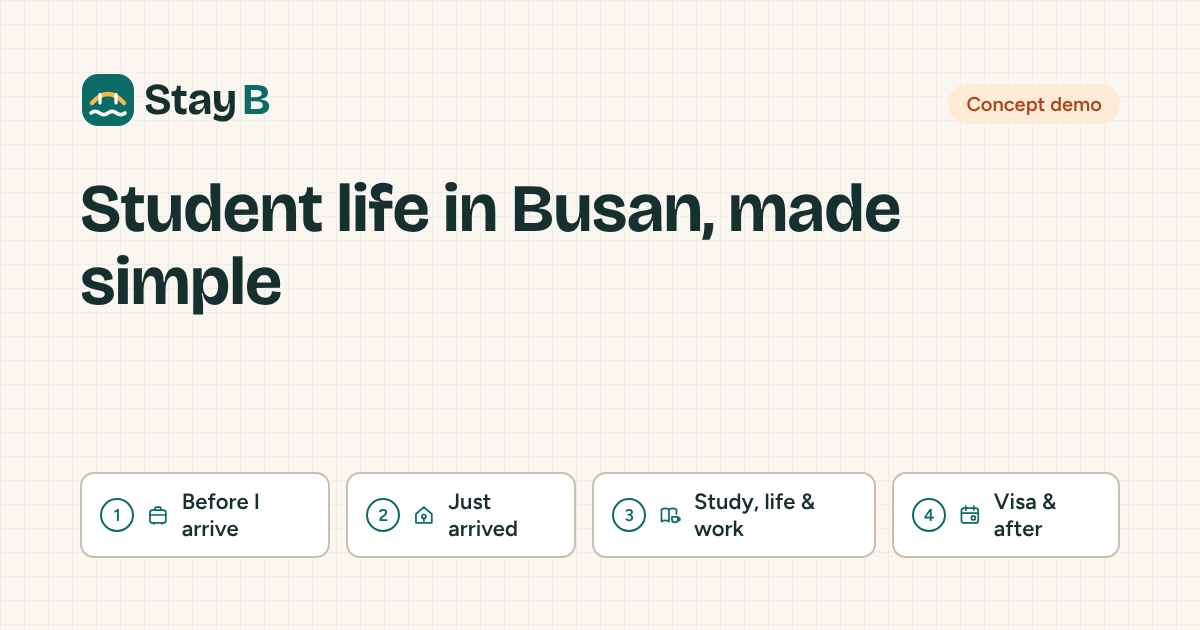
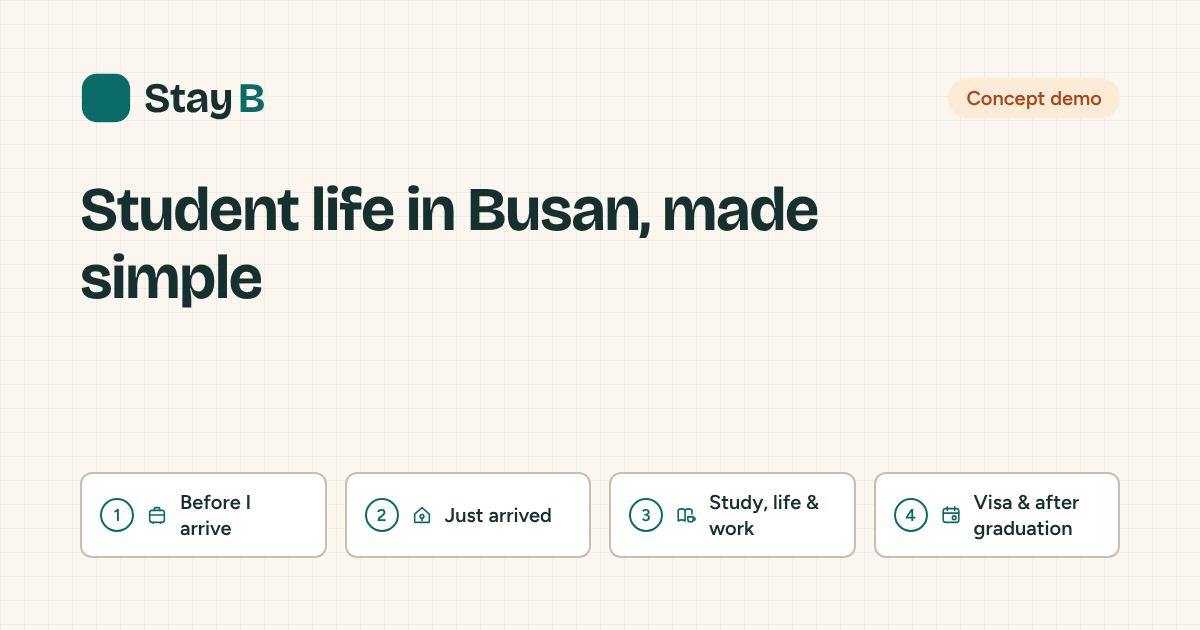
Stay B v2 수정 중 스냅샷(사용량 제한으로 웹코더 중단)
Claude-Session: https://claude.ai/code/session_01TAYZkbMJZLRQs6imsEjKx5

diff --git a/work/builds/stayb-v2/index.html b/work/builds/stayb-v2/index.html
@@ -267,6 +267,7 @@
         <span class="flow-ic meet" role="img" data-label-en="Meet in person" data-label-ko="오프라인에서 만나고" aria-label="Meet in person"><svg class="ic-xs" aria-hidden="true" focusable="false"><use href="#i-pin"/></svg></span>
         <h3 id="off-session-t"><span class="pair"><span lang="en">Pre-arrival info sessions</span><span lang="ko">입국 전 설명회</span></span></h3>
         <p><span data-l="en" lang="en">Meet us in Nepal, with our partner language school, before you fly. Learn about Busan, your school, housing and your first week.</span><span data-l="ko" lang="ko">출국 전 네팔에서 연계 어학원과 함께 만나요. 부산, 학교, 숙소, 첫 주를 미리 알려 드려요.</span></p>
+        <p class="small off-scope"><span data-l="en" lang="en">For students already admitted to a school in Korea.</span><span data-l="ko" lang="ko">한국 학교 입학이 정해진 학생을 위한 생활 설명회예요.</span></p>
         <div class="off-foot"><span class="chip badge-planned"><span data-l="en" lang="en">Planned</span><span data-l="ko" lang="ko">준비 중</span></span><button class="btn btn-warm" type="button" data-toast="dates"><span class="pair"><span lang="en">Get session dates</span><span lang="ko">설명회 일정 받기</span></span></button></div>
       </article>
 
@@ -455,7 +456,7 @@
             <option value="partner-uni">Partner university (to be announced) / 제휴 대학(협의 후 공개)</option>
             <option value="partner-school">Partner language school in Nepal / 네팔 협력 어학원</option>
             <option value="other">Other / 기타</option>
-            <option value="not-yet">Not enrolled yet / 아직 입학 전</option>
+            <option value="not-yet">Admitted, not started yet / 입학 예정(입국 전)</option>
           </select>
         </div>
         <div class="field">
@@ -567,6 +568,7 @@
       <li><svg aria-hidden="true" focusable="false"><use href="#i-coin"/></svg><span><span data-l="en" lang="en">Stay B does not charge any fee for administrative work and does not take a share of the agent's fee.</span><span data-l="ko" lang="ko">Stay B는 행정 업무 비용을 받지 않고, 행정사 비용의 일부도 받지 않아요.</span></span></li>
       <li><svg aria-hidden="true" focusable="false"><use href="#i-brief"/></svg><span><span data-l="en" lang="en">Job introductions are made by registered employment agencies and job centers.</span><span data-l="ko" lang="ko">일자리 소개는 등록된 직업소개소와 고용센터가 해요.</span></span></li>
       <li><svg aria-hidden="true" focusable="false"><use href="#i-info"/></svg><span><span data-l="en" lang="en">Stay B does not offer matchmaking or marriage brokering.</span><span data-l="ko" lang="ko">Stay B는 결혼 매칭이나 중개를 하지 않아요.</span></span></li>
+      <li><svg aria-hidden="true" focusable="false"><use href="#i-info"/></svg><span><span data-l="en" lang="en">Stay B does not recruit students, handle school admissions, or apply for visas.</span><span data-l="ko" lang="ko">Stay B는 학생 모집, 입학 수속, 비자 신청을 하지 않아요.</span></span></li>
     </ul>
     <p class="privacy"><svg class="ic" aria-hidden="true" focusable="false"><use href="#i-bubble"/></svg><span><span data-l="en" lang="en">Your information is used only to help you, and shared with an agent only when you agree. Never send your passport or alien registration number.</span><span data-l="ko" lang="ko">내 정보는 나를 돕는 데만 쓰고, 동의할 때만 행정사에게 전달해요. 여권번호·외국인등록번호는 보내지 마세요.</span></span></p>
   </div>
@@ -593,7 +595,7 @@
       </details>
       <details>
         <summary><span><span data-l="en" lang="en">Where can I meet you in person?</span><span data-l="ko" lang="ko">어디서 직접 만날 수 있나요?</span></span><svg class="ic pm-p" aria-hidden="true" focusable="false"><use href="#i-plus"/></svg><svg class="ic pm-m" aria-hidden="true" focusable="false"><use href="#i-minus"/></svg></summary>
-        <p class="ans"><span data-l="en" lang="en">In Busan. Places and dates will be shared after partner talks. Before you arrive, at info sessions with our partner language school in Nepal.</span><span data-l="ko" lang="ko">부산에서 만나요. 장소·일정은 협의 후 공개 예정이에요. 입국 전에는 네팔 연계 어학원 설명회에서 만나요.</span></p>
+        <p class="ans"><span data-l="en" lang="en">In Busan, and before you arrive, at info sessions with our partner language school in Nepal. Places and dates will be shared after partner talks.</span><span data-l="ko" lang="ko">부산에서, 그리고 입국 전에는 네팔 연계 어학원 설명회에서 만나요. 장소·일정은 협의 후 공개 예정이에요.</span></p>
       </details>
       <details>
         <summary><span><span data-l="en" lang="en">Can you find me a part-time job?</span><span data-l="ko" lang="ko">아르바이트를 구해 줄 수 있나요?</span></span><svg class="ic pm-p" aria-hidden="true" focusable="false"><use href="#i-plus"/></svg><svg class="ic pm-m" aria-hidden="true" focusable="false"><use href="#i-minus"/></svg></summary>

diff --git a/work/builds/stayb-v2/partners.html b/work/builds/stayb-v2/partners.html
@@ -162,7 +162,7 @@
       <article class="hub-node l"><span class="kind"><span class="pair inline"><span lang="en">Planned</span><span lang="ko">연결 예정</span></span></span><h3><span class="pair"><span lang="en">Heritage Studio B</span><span lang="ko">헤리티지 스튜디오 B</span></span></h3><p><span data-l="en" lang="en">Brand experience for Stay B: welcome kits, membership cards, goods and social content.</span><span data-l="ko" lang="ko">Stay B 브랜드 경험: 웰컴 키트·멤버십 카드·굿즈·SNS 콘텐츠.</span></p></article>
       <article class="hub-node r"><span class="kind"><span class="pair inline"><span lang="en">Planned</span><span lang="ko">연결 예정</span></span></span><h3><span class="pair"><span lang="en">NOWRO Korea</span><span lang="ko">NOWRO Korea</span></span></h3><p><span data-l="en" lang="en">Family visits and travel in Korea.</span><span data-l="ko" lang="ko">가족 방문·관광 연결.</span></p></article>
     </div>
-    <p class="hub-foot"><span data-l="en" lang="en">Job introductions are handled by registered employment agencies and public employment centers. Stay B shares general information only. Heritage Studio B and NOWRO Korea will be connected step by step, once the student community is established.</span><span data-l="ko" lang="ko">일자리 알선은 등록된 기관과 고용센터가 수행하며, Stay B는 일반 정보만 안내합니다. 헤리티지 스튜디오 B와 NOWRO Korea는 학생 기반이 쌓인 뒤 단계적으로 연결합니다.</span></p>
+    <p class="hub-foot"><span data-l="en" lang="en">Job introductions are handled by registered employment agencies and public employment centers. Stay B shares general information only. NOWRO Korea will be connected step by step, once the student community is established.</span><span data-l="ko" lang="ko">일자리 알선은 등록된 기관과 고용센터가 수행하며, Stay B는 일반 정보만 안내합니다. NOWRO Korea는 학생 기반이 쌓인 뒤 단계적으로 연결합니다.</span></p>
   </div>
 </section>
 
@@ -360,6 +360,11 @@
 (function(){
   "use strict";
   var S = window.StayB;
+  /* page title follows language, like the home page */
+  var TITLES = { en: "Stay B · For partners (Concept)", ko: "Stay B · 파트너 안내 (컨셉 시안)" };
+  function syncTitle(l){ document.title = TITLES[l] || TITLES.en; }
+  syncTitle(S.getLang());
+  S.onLang(syncTitle);
   var pForm = document.getElementById("partner-form"), pDone = document.getElementById("partner-done");
   var ids = ["p-org","p-person","p-email"];
   ids.forEach(function(id){

diff --git a/work/builds/stayb-v2/assets/site.css b/work/builds/stayb-v2/assets/site.css
@@ -376,6 +376,7 @@ html[lang="ko"] .btn .pair>[lang="en"]{font-size:14px;font-weight:500;opacity:.8
 .off-card > .flow-ic{position:absolute;top:16px;right:16px;width:32px;height:32px}
 .off-card h3{font-size:var(--fs-h3);line-height:1.3;padding-right:40px}
 .off-card p{margin:10px 0 0}
+.off-card .off-scope{margin-top:8px;color:var(--ink-muted)}
 .off-card .note-later{margin-top:12px}
 .off-foot{display:flex;flex-wrap:wrap;align-items:center;justify-content:space-between;gap:12px;margin-top:16px}
 .off-foot .btn .pair>[lang]{color:inherit!important}

diff --git a/work/builds/stayb-v2/assets/guides-data.js b/work/builds/stayb-v2/assets/guides-data.js
@@ -1,4 +1,4 @@
-/* Stay B guide hub content: 4 stages x 14 cards (planning v2, section 4-4).
+/* Stay B guide hub content: 4 stages x 15 cards (planning v2, section 4-4).
    Edit copy here only. Each text has en + ko; add "ne" later with the same shape.
    Markers inside text:
      [[tbc]]        -> "to be confirmed / 확인 예정" chip (facts waiting for agent review)
